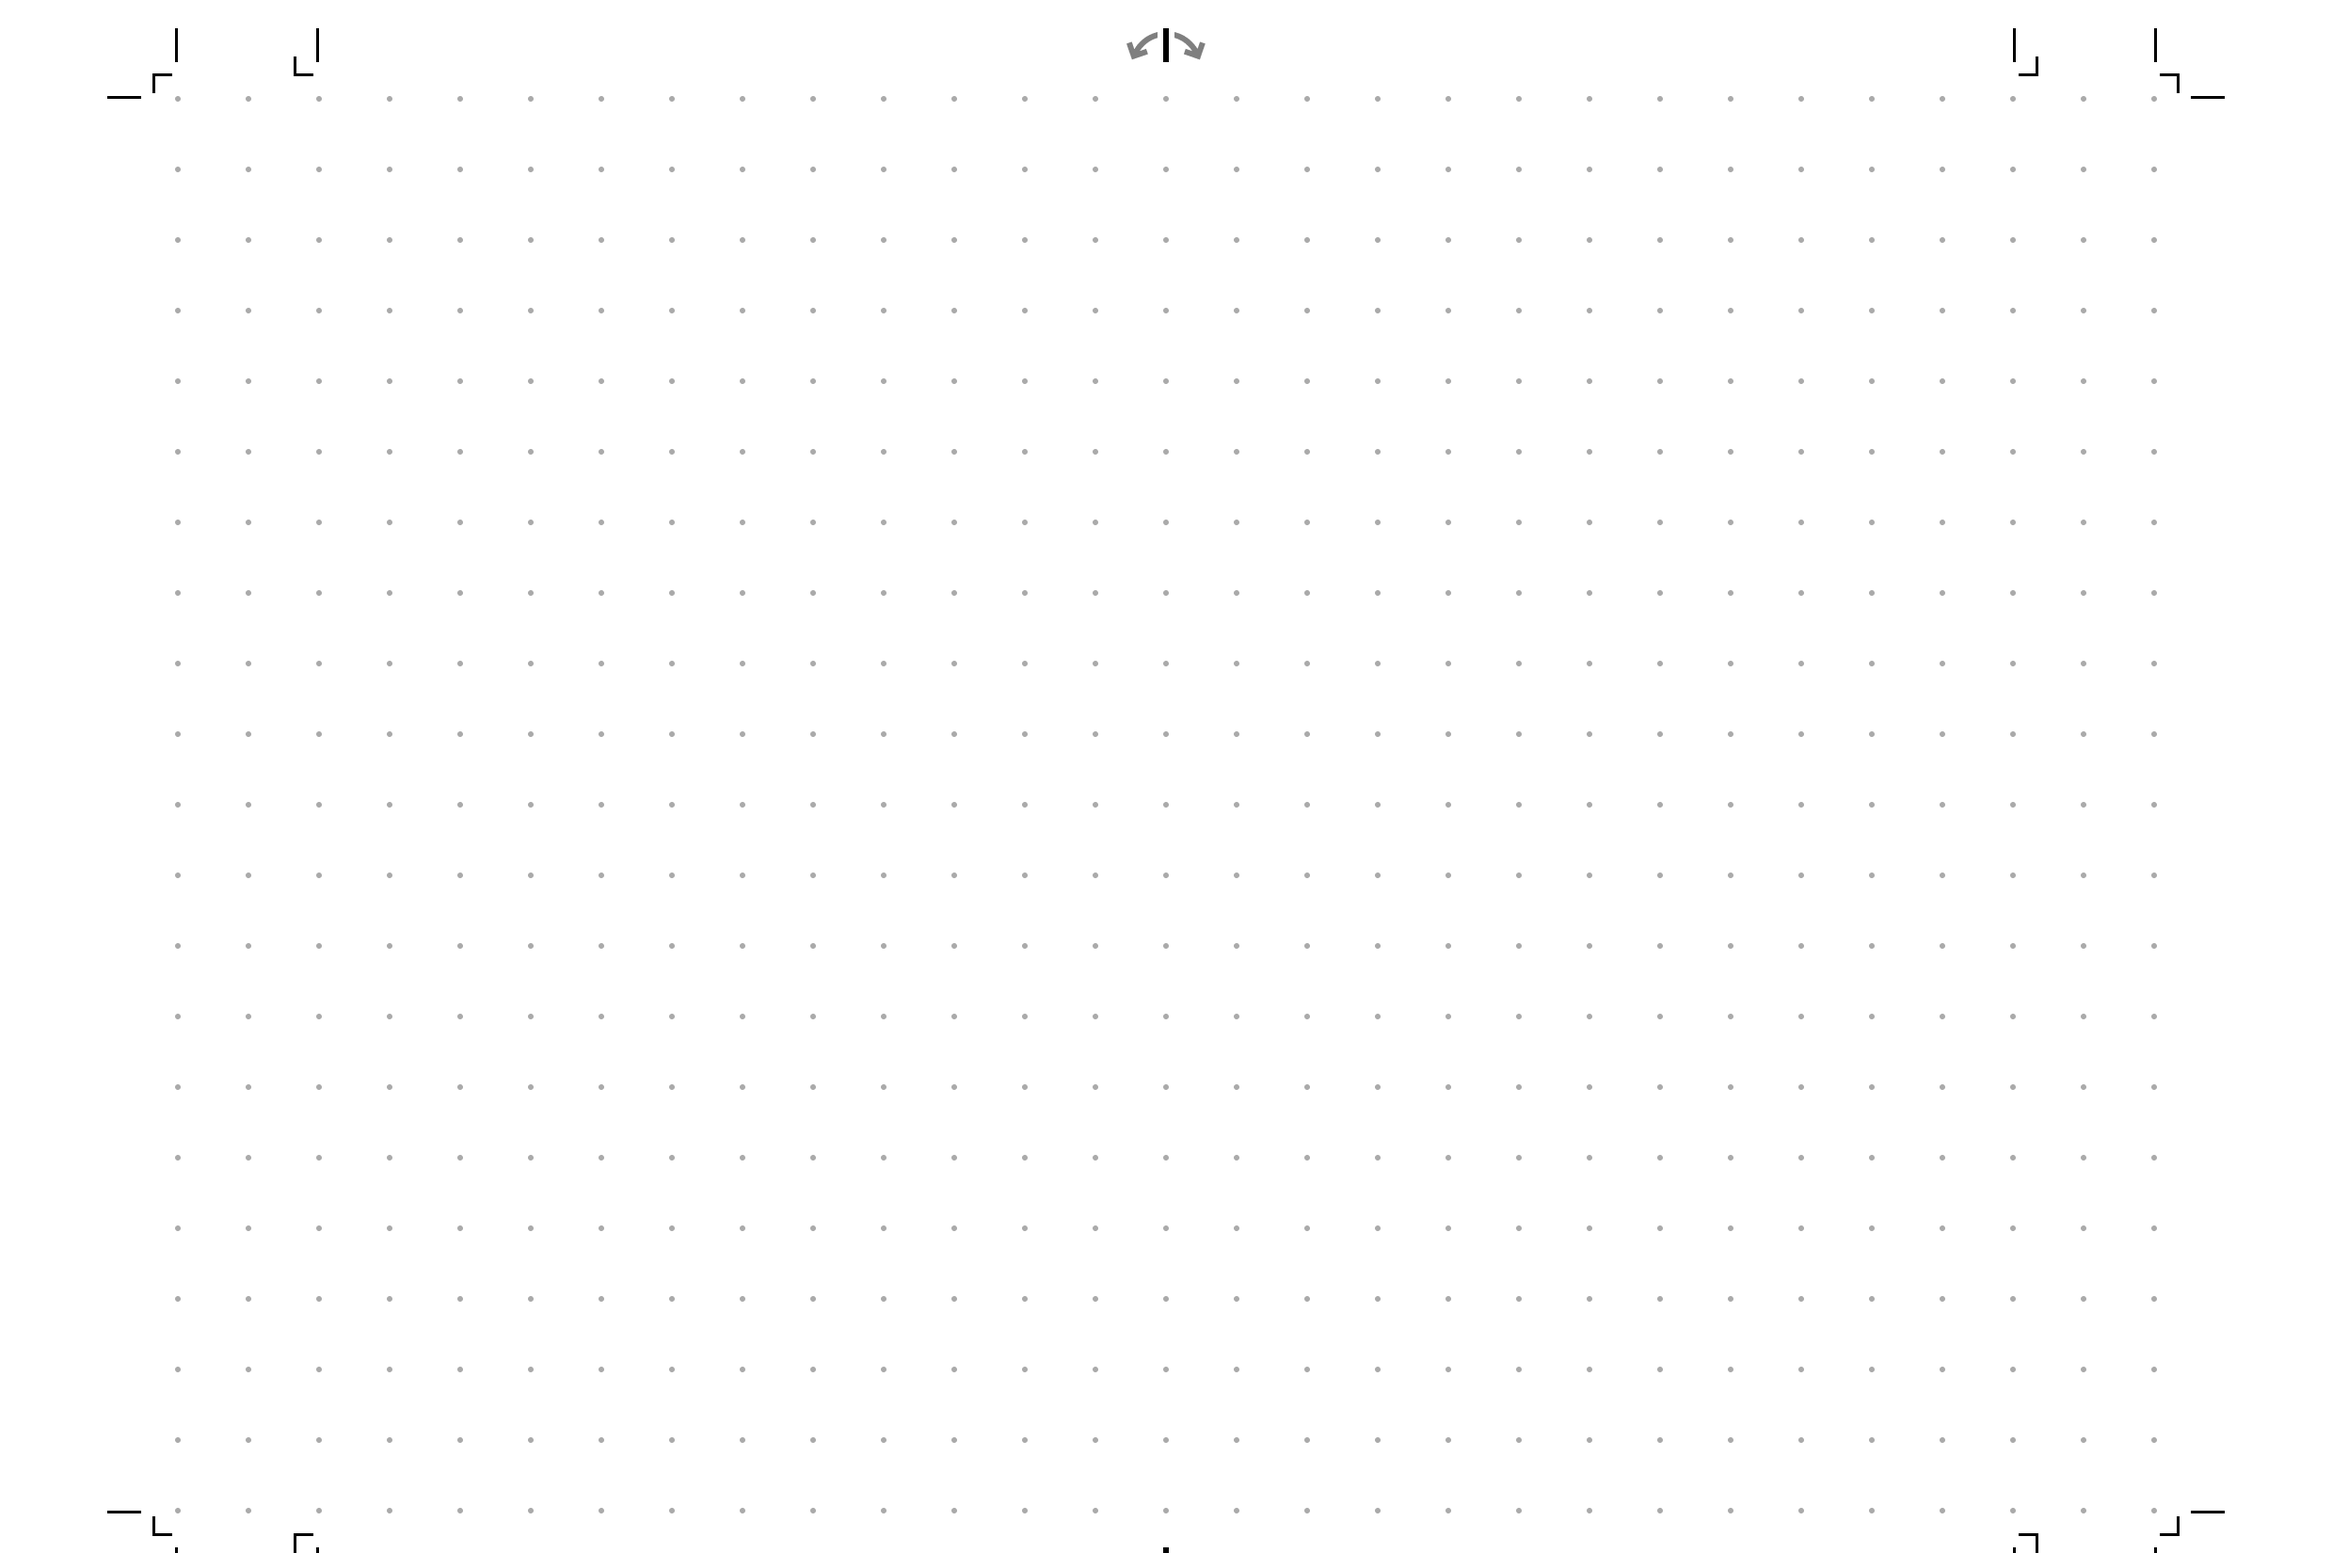
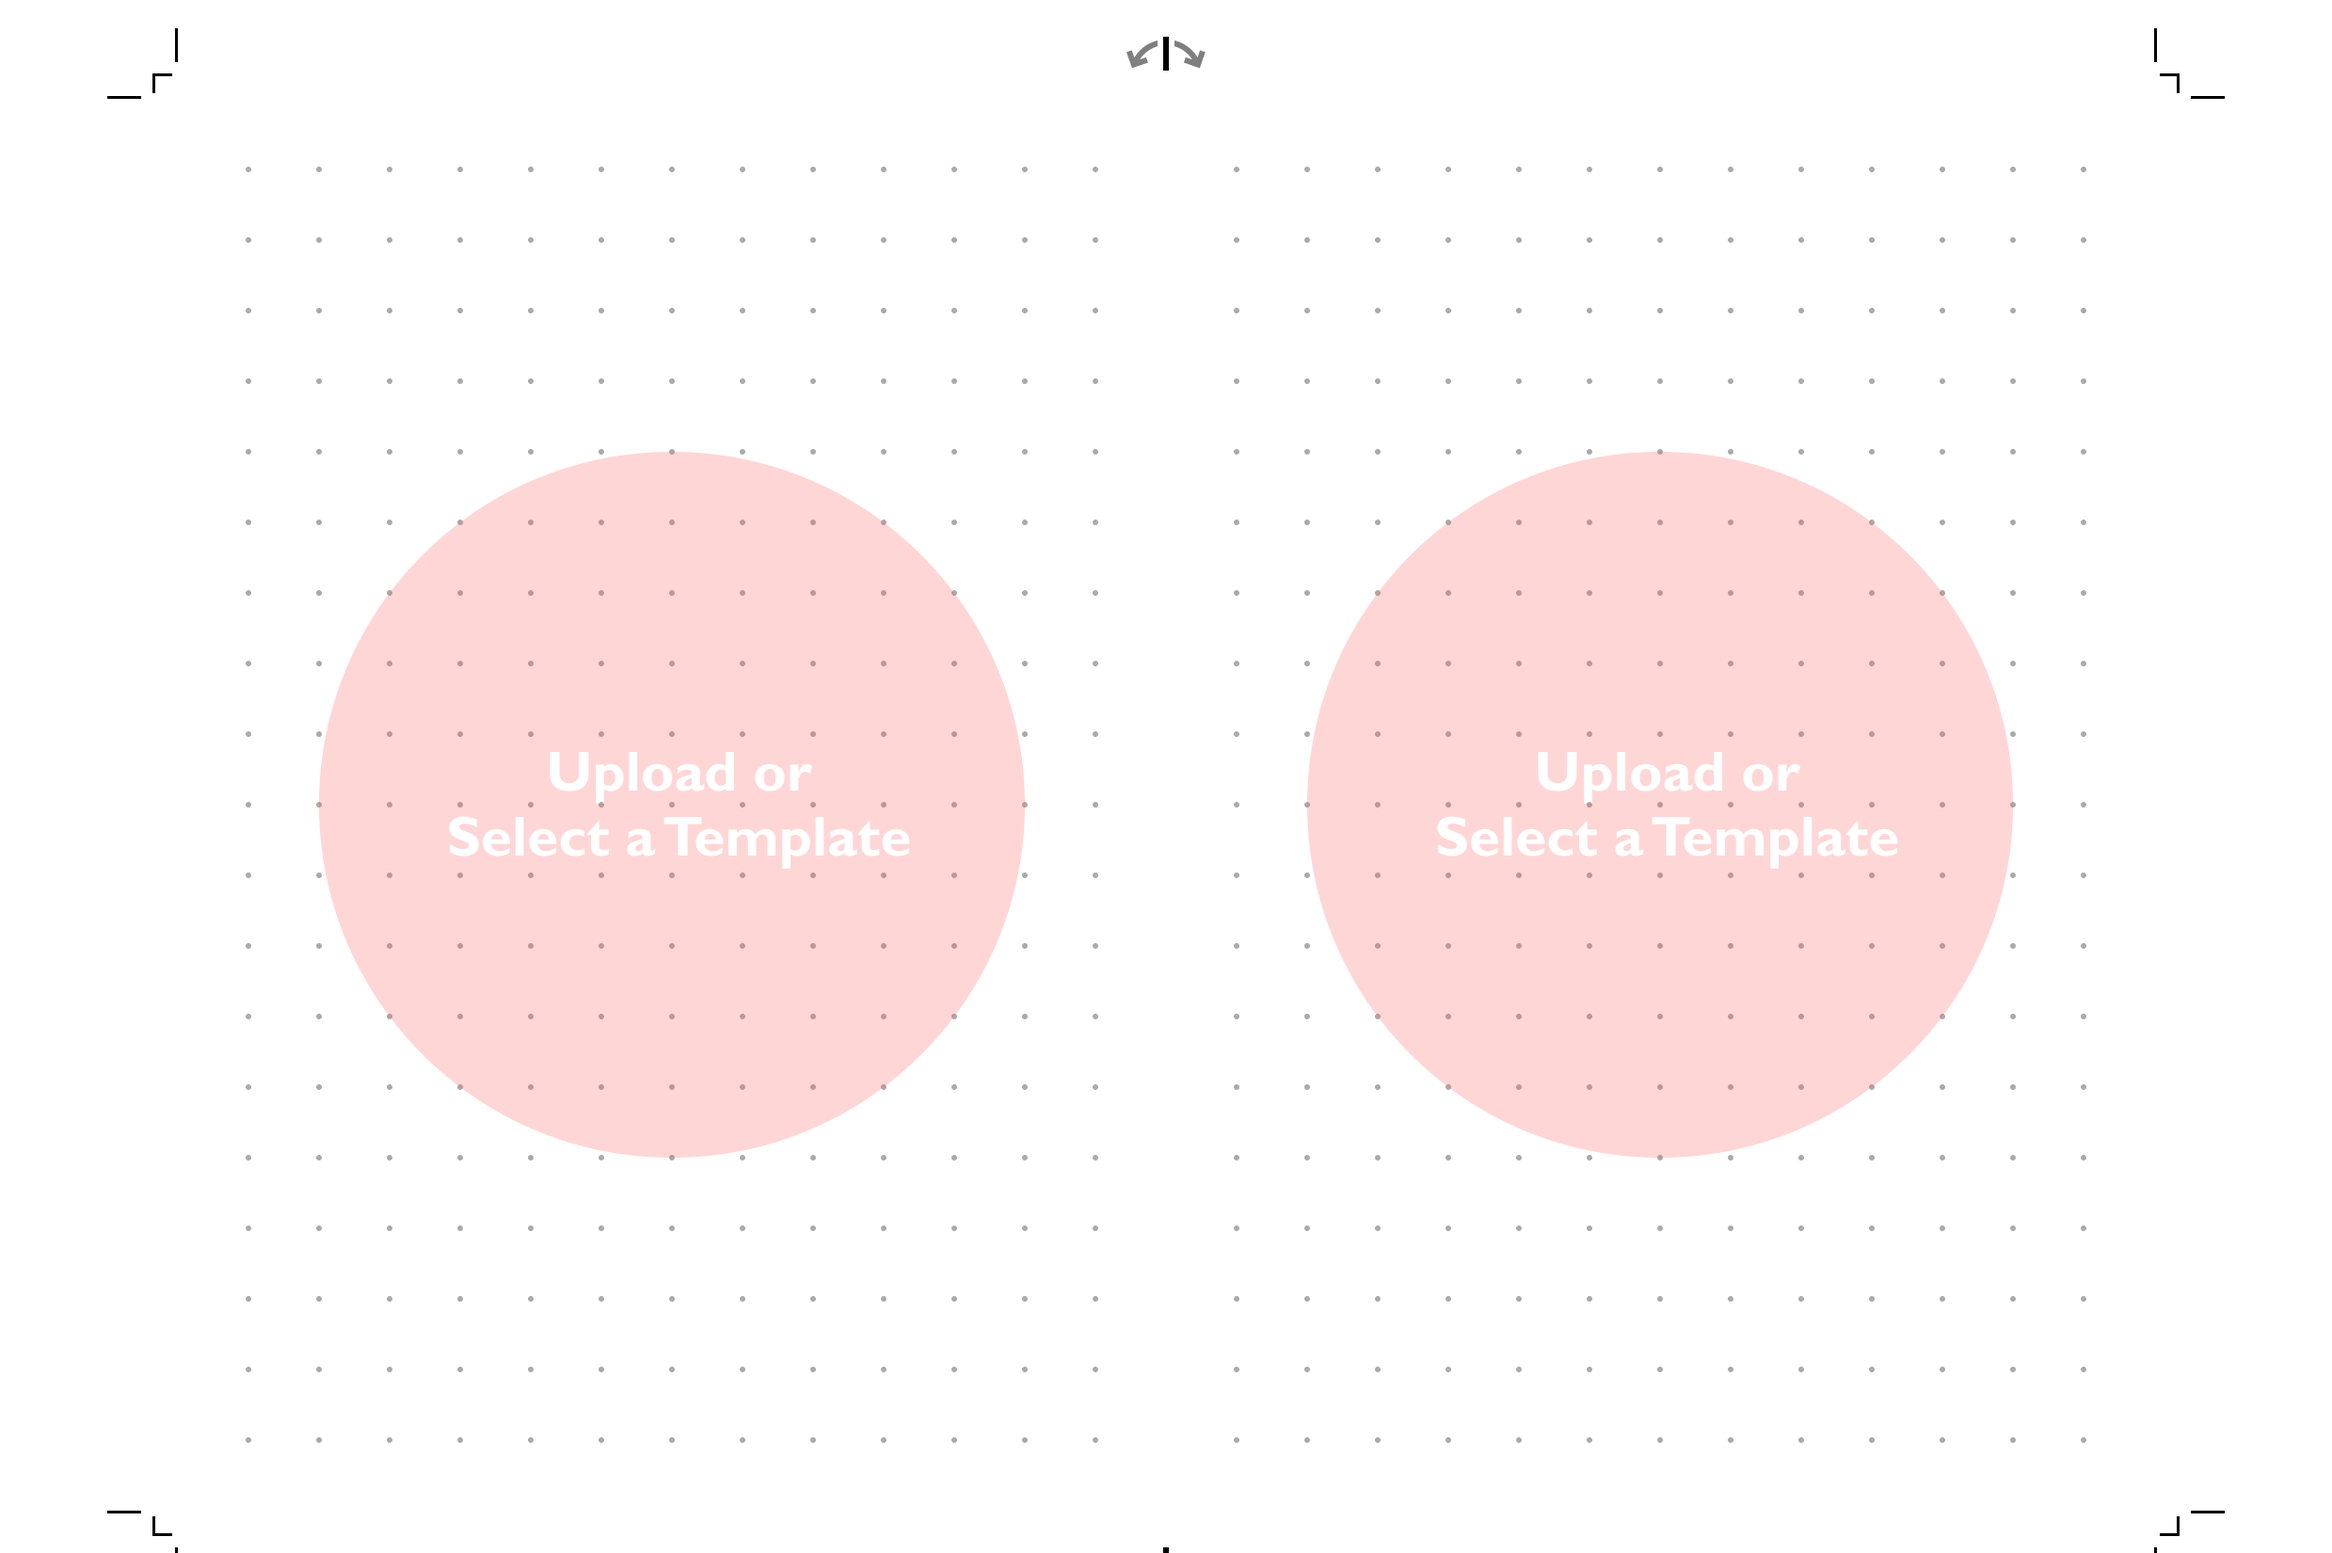
zoom, and compensate for inner page nesting

Changed region(s): [[0.5593, 0.2782, 0.8701, 0.7418], [0.1243, 0.2782, 0.4661, 0.7418]]

diff --git a/index.html b/index.html
@@ -128,6 +128,25 @@
                 transform: rotate(270deg) translate(0, 27px);
                 color: #999;
             }
+
+            div>span.marker {
+                position: absolute;
+                right: 50%;
+                top: 12px;
+                width: 3.5in;
+                display: flex;
+                height: 0.25in;
+                font-family: 'Gill Sans', 'Gill Sans MT', Calibri, 'Trebuchet MS', sans-serif;
+                color: #AAA;
+                line-height: 1em;
+                font-size: 12px;
+                align-items: flex-start;
+                justify-content: center;
+            }
+            div>span.marker > span {
+                transform: translate(10, 0px);
+                color: #999;
+            }
         }
 
         @media screen {
@@ -420,8 +439,6 @@
                 right: 1rem;
                 border-radius: 0.25rem;
                 box-shadow: 0 0 0.5rem rgba(0, 0, 0, 0.25);
-                /* disabled for now as I don't use it */
-                display: none;
             }
 
             .hide {
@@ -446,6 +463,25 @@
                 transform: rotate(270deg) translate(0, 2px);
                 color: #999;
             }
+
+            div>span.marker {
+                position: absolute;
+                right: 50%;
+                top: 4px;
+                width: 188px;
+                display: flex;
+                height: 12px;
+                font-family: 'Gill Sans', 'Gill Sans MT', Calibri, 'Trebuchet MS', sans-serif;
+                color: #AAA;
+                line-height: 1em;
+                font-size: 9px;
+                align-items: flex-start;
+                justify-content: center;
+            }
+            div>span.marker > span {
+                color: #999;
+                padding-left: 1rem;
+            }
         }
     </style>
     <script>
@@ -457,11 +493,12 @@
         /**
          * Utility to take image data and update template
          */
-        function updateTemplate() {
+        function updateTemplate(pageNumber) {
             // Updates
             const width = 2478;
             const height = 1650;
             const widthInner = 2148;
+            const halfWidthInner = 2148 / 2;
             const heightInner = 1548;
             const canvas = document.createElement('canvas');
             const ctx = canvas.getContext('2d');
@@ -477,6 +514,7 @@
             const customTemplateEle = document.getElementById('customTemplate');
             const uploadEle = document.getElementById('upload');
             const template = templateEle.value;
+            const offset = pageNumber - 1;
             if (template === 'custom') {
                 // Usage Custom Image
                 const file = uploadEle.files[0];
@@ -487,10 +525,17 @@
                         if (img.width !== widthInner || img.height !== heightInner) {
                             alert(`Should really only use ${widthInner}x${heightInner} images.`);
                         }
+                        // Left Page
                         ctx.drawImage(
                             img,
-                            0, 0, widthInner, heightInner,
-                            55 * 3, 27 * 3, widthInner, heightInner
+                            0, 0, halfWidthInner - offset, heightInner,
+                            (55 * 3) + offset, 27 * 3, halfWidthInner - offset, heightInner
+                        );
+                        // Right Page
+                        ctx.drawImage(
+                            img,
+                            halfWidthInner - offset, 0, halfWidthInner - offset, heightInner,
+                            55 * 3 + halfWidthInner - offset, 27 * 3, halfWidthInner - offset, heightInner
                         );
                         const pages = [...document.querySelectorAll('div.page')];
                         pages.forEach(page => {
@@ -500,16 +545,27 @@
                     img.src = e.target.result;
                 };
                 try {
-                    reader.readAsDataURL(file);
+                    if (file) {
+                        reader.readAsDataURL(file);
+                    } else {
+                        console.log('No file uploaded to render');
+                    }
                 } catch (e) {
                     console.error('error file not sure');
                 }
             } else {
                 // Use Template Path
+                // Left Page
                 ctx.drawImage(
                     cacheTemplate.get(template),
-                    0, 0, widthInner, heightInner,
-                    55 * 3, 27 * 3, widthInner, heightInner
+                    0, 0, halfWidthInner - offset, heightInner,
+                    (55 * 3) + offset, 27 * 3, halfWidthInner - offset, heightInner
+                );
+                // Right Page
+                ctx.drawImage(
+                    cacheTemplate.get(template),
+                    halfWidthInner + offset, 0, halfWidthInner - offset, heightInner,
+                    55 * 3 + halfWidthInner, 27 * 3, halfWidthInner - offset, heightInner
                 );
                 const pages = [...document.querySelectorAll('div.page')];
                 pages.forEach(page => {
@@ -597,6 +653,9 @@
                     startNumberEles.forEach(ele => ele.textContent = page.start);
                     const endNumberEles = [...document.querySelectorAll('.right > span')];
                     endNumberEles.forEach(ele => ele.textContent = page.end);
+                    const pageNumberEle = document.getElementById('pageNumber');
+                    pageNumberEle.textContent = page.name;
+                    updateTemplate(page.number);
                 });
                 pageSelect.appendChild(pEle);
                 pageEles.push(pEle);
@@ -611,10 +670,10 @@
             });
             document.getElementById('template').addEventListener('change', () => {
                 updateTotalPages();
-                updateTemplate();
+                updateTemplate(0);
             });
             document.getElementById('upload').addEventListener('change', () => {
-                updateTemplate();
+                updateTemplate(0);
             });
             document.getElementById('enablePageNumbers').addEventListener('change', () => {
                 updateTotalPages();
@@ -624,6 +683,9 @@
             });
             document.getElementById('totalPages').addEventListener('change', () => {
                 updateTotalPages();
+            });
+            document.getElementById('zoom').addEventListener('change', (e) => {
+                document.getElementById('body').style.zoom = e.target.value;
             });
             // Cache all images
             const promises = [];
@@ -645,17 +707,18 @@
                 console.log('Cached all image templates.');
                 // Enable dropdown
                 templateEle.disabled = false;
+                // Init Defaults
+                updateTotalPages();
             });
-            // Init Defaults
-            updateTotalPages();
         });
     </script>
 </head>
 
 <body>
-    <select class="zoom no-print">
-        <option value="Resize">100%</option>
-        <option value="Resize">125%</option>
+    <select class="zoom no-print" id="zoom">
+        <option value="100%">100%</option>
+        <option value="125%">125%</option>
+        <option value="150%">150%</option>
     </select>
     <section class="no-print">
         <h1>Pocket Journal Generator</h1>
@@ -677,6 +740,7 @@
                 </optgroup>
                 <optgroup label="Detail">
                     <option value="details/details-basic-dot.png">Basic - Dots</option>
+                    <option value="details/details-basic-grid.png">Basic - Grid</option>
                     <option value="details/details-basic-iso.png">Basic - Isometric</option>
                 </optgroup>
                 <optgroup label="Inner">
@@ -747,8 +811,9 @@
             <p><a href="https://github.com/Templarian/journal-generator">https://github.com/Templarian/journal-generator</a></p>
         </div>
     </section>
-    <div class="body">
+    <div class="body" id="body">
         <div class="page">
+            <span class="marker"><span id="pageNumber">0</span></span>
             <span class="arrow"><span>&#x279C;</span></span>
             <span class="number left"><span>1</span></span>
             <span class="number right"><span>2</span></span>
